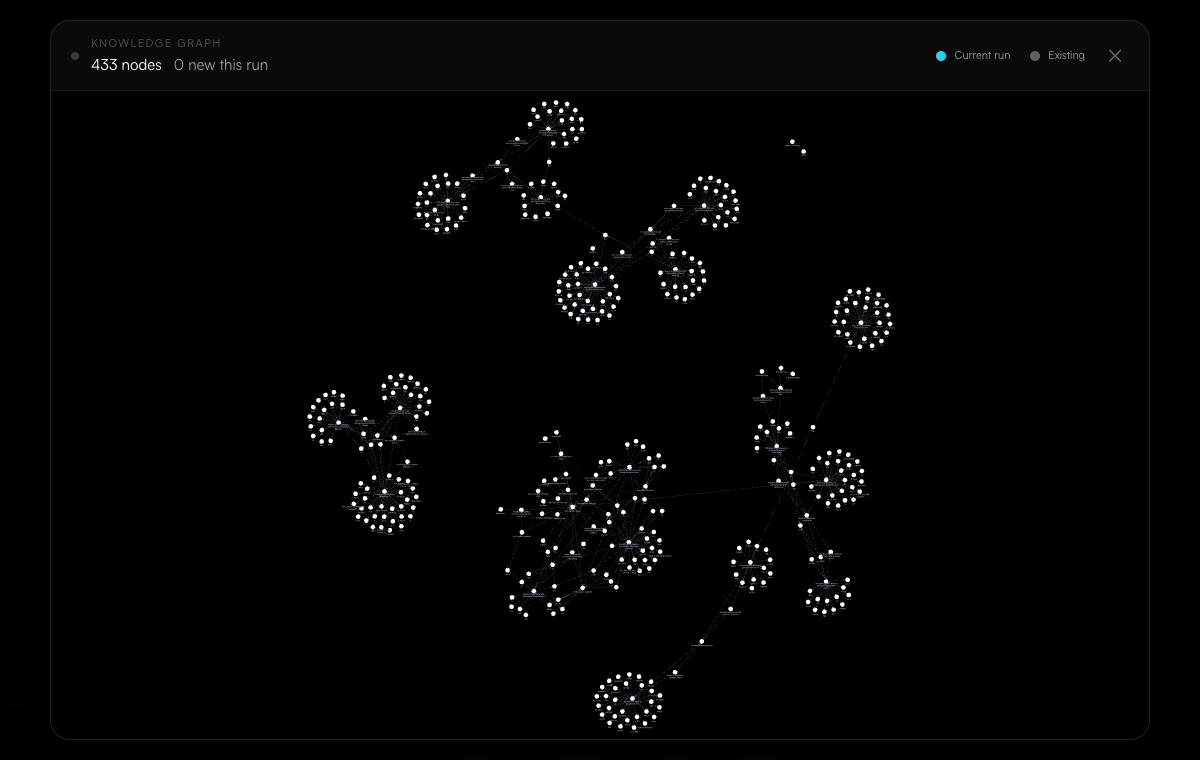
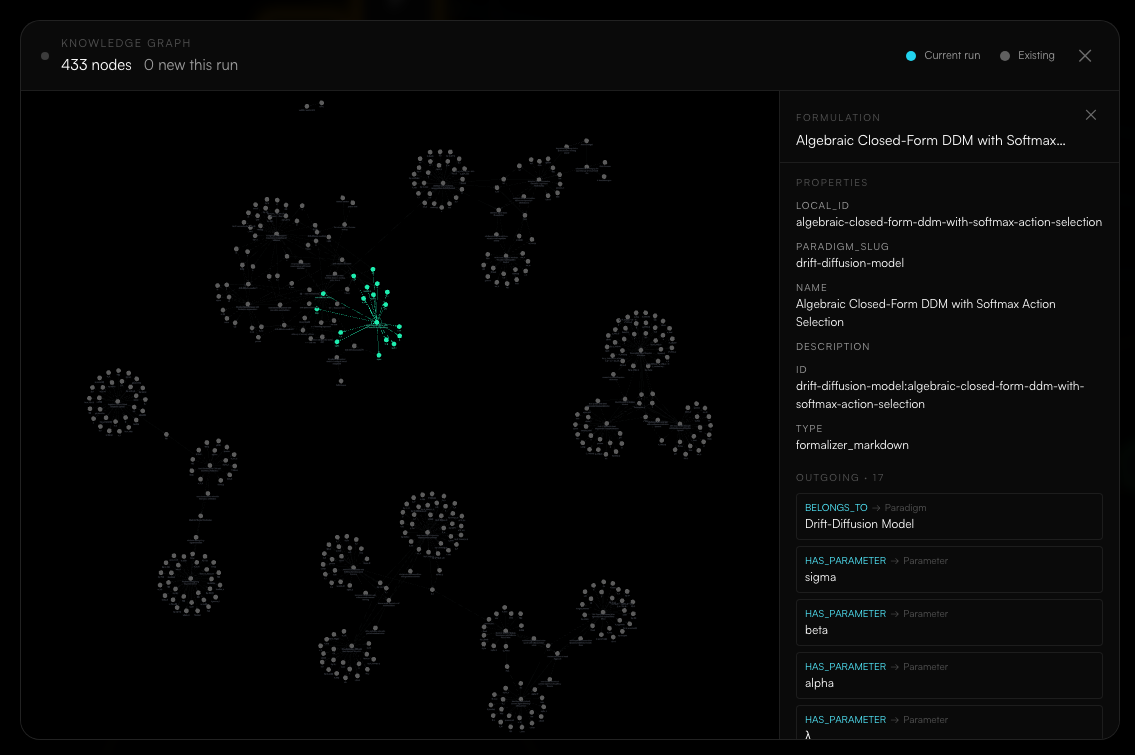
fix[phase1]: improve graph details and thesis figures

diff --git a/phase1-pablo/web/src/components/Graph.tsx b/phase1-pablo/web/src/components/Graph.tsx
@@ -117,11 +117,25 @@ function OutputRenderer({ node, status, theme }: AgrexNodeProps) {
   );
 }
 
-function DatabaseRenderer({ node, status, theme }: AgrexNodeProps) {
+function DatabaseRenderer({
+  node,
+  status,
+  theme,
+  collapsed,
+  childCount,
+  childrenAllDone,
+  onCollapseToggle,
+}: AgrexNodeProps) {
   const borderColor =
     status === 'running' ? theme.statusRunning
     : status === 'done' ? theme.statusDone
     : status === 'error' ? theme.statusError
+    : theme.nodeBorder;
+  const canCollapse = typeof childCount === 'number' && childCount > 0 && onCollapseToggle;
+  const collapseColor = collapsed
+    ? childrenAllDone
+      ? theme.statusDone
+      : theme.accent
     : theme.nodeBorder;
 
   return (
@@ -143,6 +157,35 @@ function DatabaseRenderer({ node, status, theme }: AgrexNodeProps) {
       >
         <Database size={52} strokeWidth={1.85} aria-hidden="true" style={{ color: theme.nodeIcon }} />
       </div>
+      {canCollapse ? (
+        <button
+          type="button"
+          aria-label={collapsed ? 'Expand children' : 'Collapse children'}
+          title={collapsed ? 'Expand memory edges' : 'Collapse memory edges'}
+          onClick={(event) => {
+            event.stopPropagation();
+            onCollapseToggle?.();
+          }}
+          onMouseDown={(event) => event.stopPropagation()}
+          className="absolute flex items-center justify-center rounded-full"
+          style={{
+            top: 14,
+            right: 28,
+            width: 24,
+            height: 24,
+            border: `1px solid ${collapseColor}`,
+            background: theme.nodeFill,
+            color: theme.foreground,
+            fontSize: 10,
+            fontWeight: 700,
+            lineHeight: 1,
+            boxShadow: '0 2px 8px rgba(0,0,0,0.2)',
+            cursor: 'pointer',
+          }}
+        >
+          {childCount}
+        </button>
+      ) : null}
       <div
         className="mt-1 text-center"
         style={{

diff --git a/phase1-pablo/web/src/lib/replayAdapter.test.ts b/phase1-pablo/web/src/lib/replayAdapter.test.ts
@@ -322,6 +322,7 @@ describe("sanitizeLabTraceEvents", () => {
         target: "builder:homeostatic:pi_controller",
         type: "memory_retrieve",
         label: "retrieves",
+        collapseOwnerId: "db:knowledge-graph",
       }),
       expect.objectContaining({
         id: "edge:memory-retrieve:vectors:builder:homeostatic:pi_controller",
@@ -329,6 +330,7 @@ describe("sanitizeLabTraceEvents", () => {
         target: "builder:homeostatic:pi_controller",
         type: "memory_retrieve",
         label: "retrieves",
+        collapseOwnerId: "db:vector-memory",
       }),
     ]);
   });
@@ -383,6 +385,7 @@ describe("sanitizeLabTraceEvents", () => {
         target: "db:knowledge-graph",
         type: "memory_store",
         label: "stores",
+        collapseOwnerId: "db:knowledge-graph",
       }),
       expect.objectContaining({
         id: "edge:memory-store:vectors:memory_agent:research",
@@ -390,6 +393,7 @@ describe("sanitizeLabTraceEvents", () => {
         target: "db:vector-memory",
         type: "memory_store",
         label: "stores",
+        collapseOwnerId: "db:vector-memory",
       }),
     ]);
   });
@@ -589,6 +593,7 @@ describe("labReducers", () => {
         id: "edge:memory-retrieve:kg:builder:homeostatic:pi_controller",
         source: "db:knowledge-graph",
         target: "builder:homeostatic:pi_controller",
+        collapseOwnerId: "db:knowledge-graph",
       }),
     );
     expect(store.addEdge).toHaveBeenCalledWith(
@@ -596,6 +601,7 @@ describe("labReducers", () => {
         id: "edge:memory-retrieve:vectors:builder:homeostatic:pi_controller",
         source: "db:vector-memory",
         target: "builder:homeostatic:pi_controller",
+        collapseOwnerId: "db:vector-memory",
       }),
     );
   });
@@ -623,6 +629,7 @@ describe("labReducers", () => {
         target: "db:knowledge-graph",
         type: "memory_store",
         label: "stores",
+        collapseOwnerId: "db:knowledge-graph",
       }),
     );
     expect(store.updateNode).not.toHaveBeenCalled();
@@ -747,6 +754,7 @@ describe("labReducers", () => {
           target: "agent-1",
           type: "memory_retrieve",
           label: "retrieves",
+          collapseOwnerId: "db:knowledge-graph",
         }),
         expect.objectContaining({
           id: "edge:memory-retrieve:vectors:agent-1",
@@ -754,6 +762,7 @@ describe("labReducers", () => {
           target: "agent-1",
           type: "memory_retrieve",
           label: "retrieves",
+          collapseOwnerId: "db:vector-memory",
         }),
         expect.objectContaining({
           id: "edge:memory-store:vectors:memory_agent:research",
@@ -761,6 +770,7 @@ describe("labReducers", () => {
           target: "db:vector-memory",
           type: "memory_store",
           label: "stores",
+          collapseOwnerId: "db:vector-memory",
         }),
       ],
     });

diff --git a/phase1-pablo/web/src/lib/replayAdapter.ts b/phase1-pablo/web/src/lib/replayAdapter.ts
@@ -430,6 +430,7 @@ function memoryRetrieveEdges(parentId: string): AgrexEdge[] {
       target: parentId,
       type: "memory_retrieve",
       label: "retrieves",
+      collapseOwnerId: MEMORY_DB_NODES.kg.id,
     },
     {
       id: `edge:memory-retrieve:vectors:${parentId}`,
@@ -437,6 +438,7 @@ function memoryRetrieveEdges(parentId: string): AgrexEdge[] {
       target: parentId,
       type: "memory_retrieve",
       label: "retrieves",
+      collapseOwnerId: MEMORY_DB_NODES.vectors.id,
     },
   ];
 }
@@ -448,6 +450,7 @@ function memoryStoreEdge(kind: MemoryDbKind, parentId: string): AgrexEdge {
     target: MEMORY_DB_NODES[kind].id,
     type: "memory_store",
     label: "stores",
+    collapseOwnerId: MEMORY_DB_NODES[kind].id,
   };
 }
 

diff --git a/phase1-pablo/docs/tfg-memoria-latex/capitulos/desarrollo.tex b/phase1-pablo/docs/tfg-memoria-latex/capitulos/desarrollo.tex
@@ -292,24 +292,59 @@ Validación & uv, pytest, GitHub Actions & Tests de modelos, unit tests, lint y 
 
 Como evidencia del resultado implementado, se restauró en local el paquete de
 artefactos de CASO1 usado en la evaluación de corpus cerrado de la
-Sección~\ref{sec:evaluacion-corpus-cerrado}. La Figura~\ref{fig:phase1-ui-replay-run}
-muestra la interfaz final sobre una ejecución real, no un diseño inicial.
+Sección~\ref{sec:evaluacion-corpus-cerrado}. Las capturas muestran la interfaz
+final sobre una ejecución real, no un diseño inicial. El recorrido visual es el
+mismo que se usa para revisar una run: primero se observa la traza completa,
+después se inspecciona un evento concreto, luego se abre el grafo de
+conocimiento, y por último se revisa el detalle de un nodo de memoria.
+
+La Figura~\ref{fig:phase1-ui-run-overview} muestra la traza temporal de CASO1.
+La vista permite localizar agentes, herramientas, artefactos y almacenes de
+memoria en una sola escena. También conserva los controles de replay, el estado
+por fase y la leyenda, para que la ejecución pueda revisarse después de haber
+terminado.
 
 \begin{figure}[H]
 \centering
-\includegraphics[width=\textwidth,height=0.42\textheight,keepaspectratio]{figuras/phase1-ui-replay-run-zoom}
-\caption{Detalle ampliado de la interfaz web reproduciendo CASO1 en un estado avanzado del pipeline.}
-\label{fig:phase1-ui-replay-run}
+\includegraphics[width=\textwidth,height=0.42\textheight,keepaspectratio]{figuras/phase1-ui-run-overview}
+\caption{Vista completa de la traza de CASO1 en la interfaz web. Los rectángulos representan agentes, los círculos herramientas, los hexágonos artefactos y los cilindros almacenes de memoria. Las líneas distinguen creación, lectura, escritura y aprobación.}
+\label{fig:phase1-ui-run-overview}
+\end{figure}
+
+Cuando se selecciona un nodo, la interfaz abre un panel lateral con la
+información auditable de ese evento. La Figura~\ref{fig:phase1-ui-run-node-detail}
+muestra una herramienta \texttt{web\_search}. El panel incluye estado, tiempo,
+argumentos, salida y metadatos. Esta vista evita que la depuración dependa solo
+de logs textuales.
+
+\begin{figure}[H]
+\centering
+\includegraphics[width=\textwidth,height=0.42\textheight,keepaspectratio]{figuras/phase1-ui-run-node-detail}
+\caption{Detalle de un nodo de herramienta de CASO1. El panel lateral muestra estado, tiempo, argumentos, salida y metadatos de la llamada seleccionada.}
+\label{fig:phase1-ui-run-node-detail}
 \end{figure}
 
 La misma ejecución permite inspeccionar el grafo de conocimiento construido por
-la memoria. La Figura~\ref{fig:phase1-ui-knowledge-run} muestra esa vista. Esta
-captura no pertenece al diseño inicial: es evidencia de cómo quedó la interfaz
-al revisar una ejecución de evaluación.
+la memoria. La Figura~\ref{fig:phase1-ui-knowledge-overview} muestra la vista
+global. Cada agrupación corresponde a conocimiento consolidado en torno a
+papers, paradigmas, postulados, variables o formulaciones.
 
 \begin{figure}[H]
 \centering
-\includegraphics[width=\textwidth,height=0.42\textheight,keepaspectratio]{figuras/phase1-ui-knowledge-run-zoom}
-\caption{Grafo de conocimiento de CASO1. Cada punto representa un nodo de memoria y cada línea una relación entre nodos; la vista agrupa comunidades de conocimiento relacionadas.}
-\label{fig:phase1-ui-knowledge-run}
+\includegraphics[width=\textwidth,height=0.42\textheight,keepaspectratio]{figuras/phase1-ui-knowledge-overview}
+\caption{Vista completa del grafo de conocimiento de CASO1. Cada punto representa un nodo de memoria y las aristas representan relaciones almacenadas en Neo4j.}
+\label{fig:phase1-ui-knowledge-overview}
+\end{figure}
+
+La Figura~\ref{fig:phase1-ui-knowledge-node-detail} muestra la inspección de un
+nodo del grafo de conocimiento. En este ejemplo se selecciona un paper. El panel
+lateral muestra sus propiedades, las relaciones salientes y la procedencia de la
+información, lo que permite revisar por qué ese conocimiento forma parte de la
+memoria.
+
+\begin{figure}[H]
+\centering
+\includegraphics[width=\textwidth,height=0.42\textheight,keepaspectratio]{figuras/phase1-ui-knowledge-node-detail}
+\caption{Detalle de un nodo del grafo de conocimiento de CASO1. El panel lateral muestra tipo, propiedades, relaciones salientes y procedencia del nodo seleccionado.}
+\label{fig:phase1-ui-knowledge-node-detail}
 \end{figure}